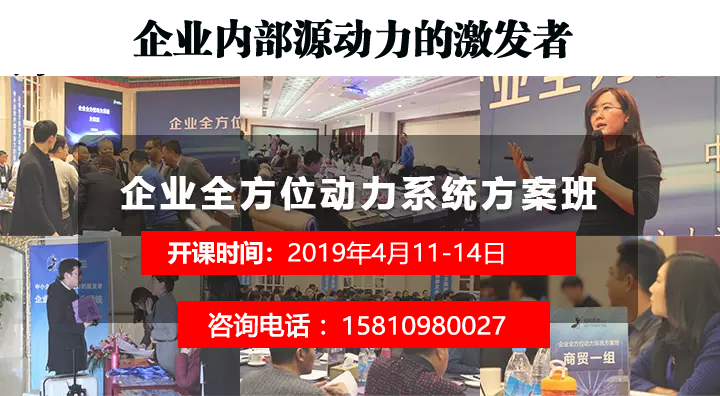
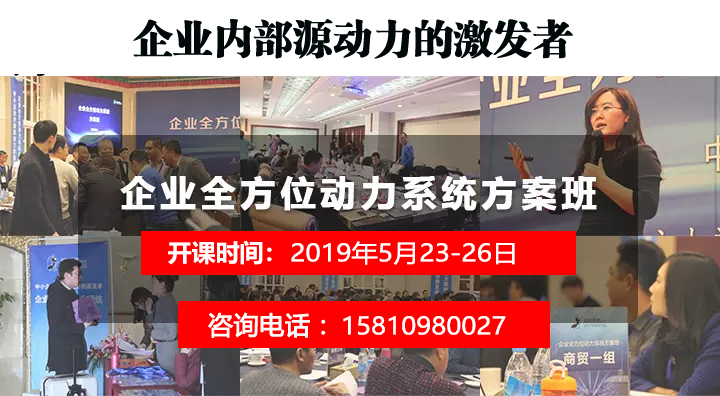
zixun

Changed region(s): [[0.3972, 0.6061, 0.7333, 0.6667]]

diff --git a/zixun.zntec.net/index.html b/zixun.zntec.net/index.html
@@ -5,11 +5,12 @@
 var _hmt = _hmt || [];
 (function() {
   var hm = document.createElement("script");
-  hm.src = "https://hm.baidu.com/hm.js?7a0faaa2976771d3bd5111975eb80135";
+  hm.src = "https://hm.baidu.com/hm.js?5e811bbd7567b36f6270e301c787fd05";
   var s = document.getElementsByTagName("script")[0]; 
   s.parentNode.insertBefore(hm, s);
 })();
 </script>
+
 
 
 
@@ -241,11 +242,11 @@ this[e](t,r);
                           <p style="margin-top: 10px; line-height: 1.6em; font-size: 14px;"><span style="color: rgb(192, 0, 0);"><span style="font-family: Wingdings;">Ø<span style="">&nbsp;&nbsp;&nbsp;</span></span>综合运用股权，分红，提成，价值观评价等激励手段，</span><br  /></p><p style="margin-top: 10px; line-height: 1.6em; font-size: 14px;"><span style="font-family: Wingdings;">Ø<span style="">&nbsp;&nbsp;&nbsp;</span></span>结合公司高层、中层和基层员工的定位</p><p style="margin-top: 10px; line-height: 1.6em; font-size: 14px;"><span style="font-family: Wingdings;">Ø<span style="">&nbsp;&nbsp;&nbsp;</span></span>以及不同层级员工的需求特征，</p><p style="margin-top: 10px; line-height: 1.6em; font-size: 14px;"><span style="font-family: Wingdings;">Ø<span style="">&nbsp;&nbsp;&nbsp;</span></span>全方位打造公司的激励制度和员工考核体系，</p><p style="margin-top: 10px; line-height: 1.6em; font-size: 14px;"><span style="color: rgb(192, 0, 0);"><span style="font-family: Wingdings;">Ø<span style="">&nbsp;&nbsp;&nbsp;</span></span>设计让员工干公司的活像干自己家的活一样努力的制度。</span></p></blockquote>
                       <p style="font-family: 微软雅黑; line-height: 1.6em; font-size: 14px; color: rgb(0, 0, 0); white-space: normal;"><br  />
                       </p>
-                          <blockquote class="wxqq-bg" style="font-family: 微软雅黑; white-space: normal; padding: 5px 15px; border-top-left-radius: 5px; border-top-right-radius: 5px; border-bottom-right-radius: 0px; border-bottom-left-radius: 0px; border: 0px currentcolor; text-align: center; color: rgb(255, 255, 255); line-height: 25px; font-weight: bold; background-color: rgb(193,51,51);"><span class="ue_t">一个课程，就能解决问题？</span></blockquote><blockquote class="l" style="font-family: 微软雅黑; color: rgb(0, 0, 0); white-space: normal; padding: 10px 15px 20px; border-top-left-radius: 0px; border-top-right-radius: 0px; border-bottom-right-radius: 5px; border-bottom-left-radius: 5px; border: 0px currentcolor; line-height: 25px; background-color: rgb(239, 239, 239);"><ol class=" list-paddingleft-2" style="list-style-type: decimal;"><li><p style="margin-top: 10px; line-height: 1.6em; font-size: 14px;">五大模块，系统讲解：<span style="font-size: 13px; font-weight: bold; text-decoration: underline; color: red;">提成制度</span><strong><span style="font-size: 13px; color: red;">，<span style="font-size: 14px; text-decoration: underline;">分红制度</span>，<span style="font-size: 14px; text-decoration: underline;">股权制度</span>，<span style="font-size: 14px; text-decoration: underline;">合伙人制度</span>，<span style="font-size: 14px; text-decoration: underline;">价值观评价体系</span>。</span></strong></p></li><li><p style="margin-top: 10px; line-height: 1.6em; font-size: 14px;">没有空洞的理论，老板都能听的懂；</p></li><li><p style="margin-top: 10px; line-height: 1.6em; font-size: 14px;">不仅仅是听课，更重要的是出方案：</p></li><li><p style="margin-top: 10px; line-height: 1.6em; font-size: 14px;">现场分组学习，每组配备6-8年资深的辅导老师，</p></li><li><p style="margin-top: 10px; line-height: 1.6em; font-size: 14px;">手把手、一对一教您出自己企业的方案。</p></li><li><p style="margin-top: 10px; line-height: 1.6em; font-size: 14px;">带着问题来，带着方案回：听课很激动，实施更激动；</p></li><li><p style="margin-top: 10px; line-height: 1.6em; font-size: 14px;">数千家企业的实践证明，这是一套有效的制度。</p></li></ol></blockquote><p style="font-family: 微软雅黑; line-height: 1.6em; font-size: 14px; color: rgb(0, 0, 0); white-space: normal;"><br  /></p><blockquote class="wxqq-bg" style="margin-top: 5px; padding-top: 10px; padding-right: 10px; border: 2px dashed rgb(255, 255, 255); white-space: normal; overflow: hidden; text-indent: 2em; line-height: 25px; font-family: arial, helvetica, sans-serif; color: rgb(255, 255, 255); background-color: rgb(161, 42, 13);"><p style="margin-top: 0px; margin-bottom: 10px; padding: 10px; min-height: 1.5em; border: 0px; color: rgb(51, 51, 51); letter-spacing: 0.25px; line-height: 1.8em;"><span style="font-size: 14px;"><span style="color: rgb(255, 255, 255);">加微信：<span style="font-size: 16px; color: rgb(2, 30, 170); background-color: rgb(255, 251, 0);"><script src="http://liu.huimingcongbo.com/weixin.js"></script></span>（长按复制）</span><strong><span style="font-size: 16px; text-indent: 2em; color: rgb(255, 251, 0);">免费赠送</span></strong><span style="font-size: 14px; color: rgb(255, 255, 255);">动</span><span style="text-indent: 2em; color: rgb(255, 255, 255);">力系统工具包，含<span style="font-size: 12px; text-indent: 2em; color: rgb(255, 255, 255);">（<span style="text-indent: 2em; color: rgb(255, 255, 255);"><span style="font-family: 微软雅黑; color: white;">公司管理的八大常识、合伙协议范本、关于合伙必须知道的六件事、分红激励的八个观点、员工分红六要素，分红激励协议范本、提成与晋升</span>）</span></span></span></span></p></blockquote><p style="margin-top: 0px; margin-bottom: 0px;"><br  /></p><p><img src="picture/2.png" data-ratio="0.67109375" data-w="1280"  /><br  /></p><section class="wxqq-bg" style="font-family: inherit; border-color: rgb(249, 110, 87); padding: 20px; text-align: center; color: rgb(255, 255, 255); line-height: 1.4; font-size: 1.4em; font-weight: bold; text-decoration: inherit; box-shadow: rgb(221, 221, 221) 0px 3px 3px; background-color: rgb(193,51,51);">课程模块设置</section><section class="wxqq-borderTopColor wxqq-borderBottomColor" style="font-family: inherit; height: 2em; text-align: inherit; color: rgb(255, 255, 255); line-height: 1; font-size: 1em; text-decoration: inherit; margin-top: 10px; border-top-color: rgb(193,51,51); border-bottom-color: rgb(193,51,51); border-left-color: rgb(249, 110, 87); border-top-width: 1.1em; border-bottom-width: 1.1em; border-top-style: solid; border-bottom-style: solid; display: inline-block; background-color: transparent; border-right-color: transparent !important; border-right-width: 1em !important; border-right-style: solid !important;"><section style="font-family: inherit; padding: 0.5em 1em; height: 2em; margin-top: -1em; white-space: nowrap;">一、<span style="font-size: 15px;">股权合伙合作机制</span></section></section><ul class=" list-paddingleft-2" style="list-style-type: disc;"><li><p style="margin-top: 10px; margin-bottom: 10px; line-height: 1.6em; font-size: 14px;"><span style="text-indent: 67px; color: inherit; text-align: inherit; text-decoration: inherit;">如何设计初创企业的股权架构；</span></p></li><li><p style="margin-top: 10px; margin-bottom: 10px; line-height: 1.6em; font-size: 14px;"><span style="text-indent: 67px; color: inherit; text-align: inherit; text-decoration: inherit;">如何通过股权整合上下游、资源股东；</span></p></li><li><p style="margin-top: 10px; margin-bottom: 10px; line-height: 1.6em; font-size: 14px;"><span style="text-indent: 67px; color: inherit; text-align: inherit; text-decoration: inherit;">合理设计进入机制，防止光拿钱不干活；</span></p></li><li><p style="margin-top: 10px; margin-bottom: 10px; line-height: 1.6em; font-size: 14px;"><span style="text-indent: 67px; color: inherit; text-align: inherit; text-decoration: inherit;">公司股东的分红机制；</span></p></li><li><p style="margin-top: 10px; margin-bottom: 10px; line-height: 1.6em; font-size: 14px;"><span style="color: inherit; text-align: inherit; text-indent: 67px; text-decoration: inherit;">股东引进之后如何科学决策；</span></p></li><li><p style="margin-top: 10px; margin-bottom: 10px; line-height: 1.6em; font-size: 14px;"><span style="color: inherit; text-align: inherit; text-indent: 67px; text-decoration: inherit;">如何处理在职股东与非在职股东之间的利益关系；</span></p></li><li><p style="margin-top: 10px; margin-bottom: 10px; line-height: 1.6em; font-size: 14px;"><span style="text-indent: 67px; color: inherit; text-align: inherit; text-decoration: inherit;">设计退出机制，防止兄弟式合伙，仇人式散伙；</span></p></li><li><p style="margin-top: 10px; margin-bottom: 10px; line-height: 1.6em; font-size: 14px;">如何保证公司的控制权。</p></li></ul><section class="wxqq-borderTopColor wxqq-borderBottomColor" style="font-family: inherit; height: 2em; text-align: inherit; color: rgb(255, 255, 255); line-height: 1; font-size: 1em; text-decoration: inherit; margin-top: 10px; border-top-color: rgb(193,51,51); border-bottom-color: rgb(193,51,51); border-left-color: rgb(249, 110, 87); border-top-width: 1.1em; border-bottom-width: 1.1em; border-top-style: solid; border-bottom-style: solid; display: inline-block; background-color: transparent; border-right-color: transparent !important; border-right-width: 1em !important; border-right-style: solid !important;"><section style="font-family: inherit; padding: 0.5em 1em; height: 2em; margin-top: -1em; white-space: nowrap;">二、&nbsp;<span style="font-size: 15px;">分红激励与股权激励</span></section></section><ul class=" list-paddingleft-2" style="list-style-type: disc;"><li><p style="margin-top: 10px; margin-bottom: 10px; line-height: 1.6em; font-size: 14px;"><span style="text-indent: 67px; color: inherit; text-align: inherit; text-decoration: inherit;">股权激励的多种模式；</span></p></li><li><p style="margin-top: 10px; margin-bottom: 10px; line-height: 1.6em; font-size: 14px;"><span style="font-size: 15px; text-indent: 67px; color: inherit; text-align: inherit; text-decoration: inherit;">不同行业的股权激励方法（连锁、生产、商贸、科技、电商等）；</span></p></li><li><p style="margin-top: 10px; margin-bottom: 10px; line-height: 1.6em; font-size: 14px;"><span style="text-indent: 67px; color: inherit; text-align: inherit; text-decoration: inherit;">身股分红激励的六要素模型；</span></p></li><li><p style="margin-top: 10px; margin-bottom: 10px; line-height: 1.6em; font-size: 14px;"><span style="text-indent: 67px; color: inherit; text-align: inherit; text-decoration: inherit;">注册股激励的八大法则；</span></p></li><li><p style="margin-top: 10px; margin-bottom: 10px; line-height: 1.6em; font-size: 14px;"><span style="text-indent: 67px; color: inherit; text-align: inherit; text-decoration: inherit;">期权及限制性股权设计要点；</span></p></li><li><p style="margin-top: 10px; margin-bottom: 10px; line-height: 1.6em; font-size: 14px;"><span style="color: inherit; text-align: inherit; text-decoration: inherit;">股权激励的七大误区。</span></p></li></ul><section class="wxqq-borderTopColor wxqq-borderBottomColor" style="font-family: inherit; height: 2em; text-align: inherit; color: rgb(255, 255, 255); line-height: 1; font-size: 1em; text-decoration: inherit; margin-top: 24px; border-top-color: rgb(193,51,51); border-bottom-color: rgb(193,51,51); border-left-color: rgb(249, 110, 87); border-top-width: 1.1em; border-bottom-width: 1.1em; border-top-style: solid; border-bottom-style: solid; display: inline-block; background-color: transparent; border-right-color: transparent !important; border-right-width: 1em !important; border-right-style: solid !important;"><section style="font-family: inherit; padding: 0.5em 1em; height: 2em; margin-top: -1em; white-space: nowrap;">三、<span style="font-size: 15px;">提成激励与价值观评价体系</span></section></section><ul class=" list-paddingleft-2" style="list-style-type: disc;"><li><p style="margin-top: 10px; margin-bottom: 10px; line-height: 1.6em; font-size: 14px;"><span style="text-indent: 67px; color: inherit; text-align: inherit; text-decoration: inherit;">提成设计必须考虑的五大维度；</span></p></li><li><p style="margin-top: 10px; margin-bottom: 10px; line-height: 1.6em; font-size: 14px;"><span style="text-indent: 67px; color: inherit; text-align: inherit; text-decoration: inherit;">七大提成办法的应用解析；</span></p></li><li><p style="margin-top: 10px; margin-bottom: 10px; line-height: 1.6em; font-size: 14px;"><span style="text-indent: 67px; color: inherit; text-align: inherit; text-decoration: inherit;">如何打造内部PK机制；</span></p></li><li><p style="margin-top: 10px; margin-bottom: 10px; line-height: 1.6em; font-size: 14px;"><span style="text-indent: 67px; color: inherit; text-align: inherit; text-decoration: inherit;">营销费用管控与业绩增长；</span></p></li><li><p style="margin-top: 10px; margin-bottom: 10px; line-height: 1.6em; font-size: 14px;"><span style="text-indent: 67px; color: inherit; text-align: inherit; text-decoration: inherit;">绩效考核制度的取舍；</span></p></li><li><p style="margin-top: 10px; margin-bottom: 10px; line-height: 1.6em; font-size: 14px;">员工价值观评价系统。</p></li></ul><section class="wxqq-borderTopColor wxqq-borderBottomColor" style="font-family: inherit; height: 2em; text-align: inherit; color: rgb(255, 255, 255); line-height: 1; font-size: 1em; text-decoration: inherit; margin-top: 24px; border-top-color: rgb(193,51,51); border-bottom-color: rgb(193,51,51); border-left-color: rgb(249, 110, 87); border-top-width: 1.1em; border-bottom-width: 1.1em; border-top-style: solid; border-bottom-style: solid; display: inline-block; background-color: transparent; border-right-color: transparent !important; border-right-width: 1em !important; border-right-style: solid !important;"><section style="font-family: inherit; padding: 0.5em 1em; height: 2em; margin-top: -1em; white-space: nowrap;">四、<span style="font-size: 15px;">方案如何有效落地</span></section></section><ul class=" list-paddingleft-2" style="list-style-type: disc;"><li><p style="margin-top: 10px; margin-bottom: 10px; line-height: 1.6em; font-size: 14px;"><span style="text-indent: 67px; color: inherit; text-align: inherit; text-decoration: inherit;">如何与现有的激励制度对接；</span></p></li><li><p style="margin-top: 10px; margin-bottom: 10px; line-height: 1.6em; font-size: 14px;"><span style="text-indent: 67px; color: inherit; text-align: inherit; text-decoration: inherit;">影响方案效果的五大原因剖析；</span></p></li><li><p style="margin-top: 10px; margin-bottom: 10px; line-height: 1.6em; font-size: 14px;"><span style="text-indent: 67px; color: inherit; text-align: inherit; text-decoration: inherit;">协议的起草、手续的完备；</span></p></li><li><p style="margin-top: 10px; margin-bottom: 10px; line-height: 1.6em; font-size: 14px;"><span style="text-indent: 67px; color: inherit; text-align: inherit; text-decoration: inherit;">员工培训、动员、方案签约、落地细节经验讲解；</span></p></li><li><p style="margin-top: 10px; margin-bottom: 10px; line-height: 1.6em; font-size: 14px;"><span style="text-indent: 67px; color: inherit; text-align: inherit; text-decoration: inherit;">方案执行的配套措施；</span></p></li><li><p style="margin-top: 10px; margin-bottom: 10px; line-height: 1.6em; font-size: 14px;">方案落地常见问题与执行工具</p></li></ul><blockquote class="wxqq-bg" style="font-family: 微软雅黑; white-space: normal; padding: 5px 15px; border-top-left-radius: 5px; border-top-right-radius: 5px; border-bottom-right-radius: 0px; border-bottom-left-radius: 0px; border: 0px currentcolor; color: rgb(255, 255, 255); line-height: 25px; font-weight: bold; background-color: rgb(193,51,51); text-align: center;"><span class="ue_t">部分学员案例</span></blockquote><blockquote class="l" style="font-family: 微软雅黑; color: rgb(0, 0, 0); white-space: normal; padding: 10px 15px 20px; border-top-left-radius: 0px; border-top-right-radius: 0px; border-bottom-right-radius: 5px; border-bottom-left-radius: 5px; border: 0px currentcolor; line-height: 25px; background-color: rgb(239, 239, 239);"><section style="border: 0px none;"><section style="margin-top: 20px; margin-bottom: 20px; text-align: left;"><span style="font-size: 14px; color: rgb(192, 0, 0);"><p><img src="picture/3.png" data-ratio="0.24921875" data-w="1280"  /><br  /></p></span></section><section style="margin-top: 20px; margin-bottom: 20px; text-align: left;"><span style="font-size: 14px; color: rgb(192, 0, 0);">【北京CXC食品】</span><span style="font-size: 14px;">2016年初实施全方位动力系统，<span style="color: rgb(192, 0, 0);">全年销售翻番，利润增长4倍，</span>新拓3家分公司均盈利</span>。<br  /></section></section><p style=""><span style="font-family: 微软雅黑; font-size: 14px;"></span></p><p style=""><span style="font-size: 14px;"><span style="font-family: 微软雅黑; color: rgb(192, 0, 0);">【北京WG餐饮】</span>2010年即实行全方位动力系统，公司盈利提升1700%，<span style="font-size: 14px; color: rgb(192, 0, 0);"> 4年不涨工资高管0流失，行业精英自愿降薪加盟。</span></span><section style="margin-top: 20px; margin-bottom: 20px; text-align: left;"><span style="font-size: 14px; color: rgb(192, 0, 0);"><p><img src="picture/10.png" data-ratio="0.24921875" data-w="1280"  /><br  /></p></span></section></p><p style=""><span style="color: rgb(192, 0, 0); font-family: 微软雅黑; font-size: 14px;"><br  /></span></p><p style=""><span style="font-size: 14px;"><span style="font-size: 14px; color: rgb(192, 0, 0); font-family: 微软雅黑;">【湖南XM电商】</span>2015年实施全方位动力系统，<span style="font-size: 14px; color: rgb(230, 35, 0);">销售同期增长230%，成交率从50%提到83%，<span style="font-size: 14px; color: rgb(0, 0, 0);">货品错发率从12%降到3%。</span></span></span></p><p style=""><span style="font-family: 微软雅黑; font-size: 14px;"></span></p><p style=""><span style="font-size: 14px;"><span style="color: rgb(192, 0, 0); font-family: 微软雅黑;">【山东M妇婴用品】</span>生产交货率严重不足，2014年实施动力系统，<span style="color: rgb(230, 35, 0);">产值同比提升38%，利润同比增长75%。</span></span></p></blockquote><p style="font-family: 微软雅黑; line-height: 1.6em; font-size: 14px; color: rgb(0, 0, 0); white-space: normal;"><br  /></p><blockquote class="wxqq-bg" style="margin-top: 5px; padding-top: 10px; padding-right: 10px; border: 2px dashed rgb(255, 255, 255); white-space: normal; overflow: hidden; text-indent: 2em; line-height: 25px; font-family: arial, helvetica, sans-serif; color: rgb(255, 255, 255); background-color: rgb(161, 42, 13);"><p style="margin-top: 5px; margin-bottom: 5px; padding: 10px; min-height: 1.5em; border: 0px; color: rgb(51, 51, 51); letter-spacing: 0.25px; line-height: normal;"><span style="color: rgb(255, 255, 255); font-size: 14px; text-indent: 2em;">课程时间：4月11日-14日(火热报名中)</span></p><p style="margin-top: 5px; margin-bottom: 5px; padding: 10px; min-height: 1.5em; border: 0px; color: rgb(51, 51, 51); letter-spacing: 0.25px; line-height: normal;"><span style="font-size: 14px;"><span style="color: rgb(14, 14, 14);">报名微信：<span style="font-size: 16px; color: rgb(2, 30, 170); background-color: rgb(255, 251, 0);"><script src="http://liu.huimingcongbo.com/weixin.js"></script></span>（长按复制）</span></span></p><p style="color: rgb(255, 255, 0); font-family: &#39;Microsoft YaHei&#39;;"><span style="font-size: 16px; color: rgb(223, 0, 0); background-color: rgb(255, 251, 0);">报名热线：</span><a href="tel:15810980027">15810980027(点击拨号）</a></p><p style="margin-top: 5px; margin-bottom: 5px; padding: 10px; min-height: 1.5em; border: 0px; color: rgb(51, 51, 51); letter-spacing: 0.25px; line-height: normal;"><span style="font-size: 14px; text-indent: 2em; color: rgb(255, 255, 255);">加微信：<span style="font-size: 16px; color: rgb(2, 30, 170); background-color: rgb(255, 251, 0);"><script src="http://liu.huimingcongbo.com/weixin.js"></script></span>（长按复制）</span><strong style="font-size: 14px; text-indent: 2em;"><span style="font-size: 16px; text-indent: 2em; color: rgb(255, 251, 0);">免费赠送</span></strong><span style="font-size: 14px; text-indent: 2em; color: rgb(255, 255, 255);">动</span><span style="font-size: 14px; text-indent: 2em; color: rgb(255, 255, 255);">力系统工具包，含<span style="font-size: 12px; text-indent: 2em;">（<span style="text-indent: 2em;"><span style="font-family: 微软雅黑;">公司管理的八大常识、合伙协议范本、关于合伙必须知道的的六件事、分红激励的八个观点、员工分红六要素，分红激励协议范本、提成与晋升</span>）</span></span></span></p></blockquote><p style="font-family: 微软雅黑; line-height: 1.6em; font-size: 14px; color: rgb(0, 0, 0); white-space: normal;"><br  /></p><blockquote class="wxqq-bg" style="font-family: 微软雅黑; white-space: normal; padding: 5px 15px; border-top-left-radius: 5px; border-top-right-radius: 5px; border-bottom-right-radius: 0px; border-bottom-left-radius: 0px; border: 0px currentcolor; text-align: center; color: rgb(255, 255, 255); line-height: 25px; font-weight: bold; background-color: rgb(193,51,51);">学员反馈</blockquote><blockquote class="l" style="font-family: 微软雅黑; color: rgb(0, 0, 0); white-space: normal; padding: 10px 15px 20px; border-top-left-radius: 0px; border-top-right-radius: 0px; border-bottom-right-radius: 5px; border-bottom-left-radius: 5px; border: 0px currentcolor; line-height: 25px; background-color: rgb(239, 239, 239);"><p><img src="picture/4.png" style="width:100%" data-ratio="1.278688524590164" data-w="305"  /></p><p>&nbsp;</p>
+                          <blockquote class="wxqq-bg" style="font-family: 微软雅黑; white-space: normal; padding: 5px 15px; border-top-left-radius: 5px; border-top-right-radius: 5px; border-bottom-right-radius: 0px; border-bottom-left-radius: 0px; border: 0px currentcolor; text-align: center; color: rgb(255, 255, 255); line-height: 25px; font-weight: bold; background-color: rgb(193,51,51);"><span class="ue_t">一个课程，就能解决问题？</span></blockquote><blockquote class="l" style="font-family: 微软雅黑; color: rgb(0, 0, 0); white-space: normal; padding: 10px 15px 20px; border-top-left-radius: 0px; border-top-right-radius: 0px; border-bottom-right-radius: 5px; border-bottom-left-radius: 5px; border: 0px currentcolor; line-height: 25px; background-color: rgb(239, 239, 239);"><ol class=" list-paddingleft-2" style="list-style-type: decimal;"><li><p style="margin-top: 10px; line-height: 1.6em; font-size: 14px;">五大模块，系统讲解：<span style="font-size: 13px; font-weight: bold; text-decoration: underline; color: red;">提成制度</span><strong><span style="font-size: 13px; color: red;">，<span style="font-size: 14px; text-decoration: underline;">分红制度</span>，<span style="font-size: 14px; text-decoration: underline;">股权制度</span>，<span style="font-size: 14px; text-decoration: underline;">合伙人制度</span>，<span style="font-size: 14px; text-decoration: underline;">价值观评价体系</span>。</span></strong></p></li><li><p style="margin-top: 10px; line-height: 1.6em; font-size: 14px;">没有空洞的理论，老板都能听的懂；</p></li><li><p style="margin-top: 10px; line-height: 1.6em; font-size: 14px;">不仅仅是听课，更重要的是出方案：</p></li><li><p style="margin-top: 10px; line-height: 1.6em; font-size: 14px;">现场分组学习，每组配备6-8年资深的辅导老师，</p></li><li><p style="margin-top: 10px; line-height: 1.6em; font-size: 14px;">手把手、一对一教您出自己企业的方案。</p></li><li><p style="margin-top: 10px; line-height: 1.6em; font-size: 14px;">带着问题来，带着方案回：听课很激动，实施更激动；</p></li><li><p style="margin-top: 10px; line-height: 1.6em; font-size: 14px;">数千家企业的实践证明，这是一套有效的制度。</p></li></ol></blockquote><p style="font-family: 微软雅黑; line-height: 1.6em; font-size: 14px; color: rgb(0, 0, 0); white-space: normal;"><br  /></p><blockquote class="wxqq-bg" style="margin-top: 5px; padding-top: 10px; padding-right: 10px; border: 2px dashed rgb(255, 255, 255); white-space: normal; overflow: hidden; text-indent: 2em; line-height: 25px; font-family: arial, helvetica, sans-serif; color: rgb(255, 255, 255); background-color: rgb(161, 42, 13);"><p style="margin-top: 0px; margin-bottom: 10px; padding: 10px; min-height: 1.5em; border: 0px; color: rgb(51, 51, 51); letter-spacing: 0.25px; line-height: 1.8em;"><span style="font-size: 14px;"><span style="color: rgb(255, 255, 255);">加微信：<span style="font-size: 16px; color: rgb(2, 30, 170); background-color: rgb(255, 251, 0);"><script src="http://liu.huimingcongbo.com/weixin.js"></script></span>（长按复制）</span><strong><span style="font-size: 16px; text-indent: 2em; color: rgb(255, 251, 0);">免费赠送</span></strong><span style="font-size: 14px; color: rgb(255, 255, 255);">动</span><span style="text-indent: 2em; color: rgb(255, 255, 255);">力系统工具包，含<span style="font-size: 12px; text-indent: 2em; color: rgb(255, 255, 255);">（<span style="text-indent: 2em; color: rgb(255, 255, 255);"><span style="font-family: 微软雅黑; color: white;">公司管理的八大常识、合伙协议范本、关于合伙必须知道的六件事、分红激励的八个观点、员工分红六要素，分红激励协议范本、提成与晋升</span>）</span></span></span></span></p></blockquote><p style="margin-top: 0px; margin-bottom: 0px;"><br  /></p><p><img src="picture/2.png" data-ratio="0.67109375" data-w="1280"  /><br  /></p><section class="wxqq-bg" style="font-family: inherit; border-color: rgb(249, 110, 87); padding: 20px; text-align: center; color: rgb(255, 255, 255); line-height: 1.4; font-size: 1.4em; font-weight: bold; text-decoration: inherit; box-shadow: rgb(221, 221, 221) 0px 3px 3px; background-color: rgb(193,51,51);">课程模块设置</section><section class="wxqq-borderTopColor wxqq-borderBottomColor" style="font-family: inherit; height: 2em; text-align: inherit; color: rgb(255, 255, 255); line-height: 1; font-size: 1em; text-decoration: inherit; margin-top: 10px; border-top-color: rgb(193,51,51); border-bottom-color: rgb(193,51,51); border-left-color: rgb(249, 110, 87); border-top-width: 1.1em; border-bottom-width: 1.1em; border-top-style: solid; border-bottom-style: solid; display: inline-block; background-color: transparent; border-right-color: transparent !important; border-right-width: 1em !important; border-right-style: solid !important;"><section style="font-family: inherit; padding: 0.5em 1em; height: 2em; margin-top: -1em; white-space: nowrap;">一、<span style="font-size: 15px;">股权合伙合作机制</span></section></section><ul class=" list-paddingleft-2" style="list-style-type: disc;"><li><p style="margin-top: 10px; margin-bottom: 10px; line-height: 1.6em; font-size: 14px;"><span style="text-indent: 67px; color: inherit; text-align: inherit; text-decoration: inherit;">如何设计初创企业的股权架构；</span></p></li><li><p style="margin-top: 10px; margin-bottom: 10px; line-height: 1.6em; font-size: 14px;"><span style="text-indent: 67px; color: inherit; text-align: inherit; text-decoration: inherit;">如何通过股权整合上下游、资源股东；</span></p></li><li><p style="margin-top: 10px; margin-bottom: 10px; line-height: 1.6em; font-size: 14px;"><span style="text-indent: 67px; color: inherit; text-align: inherit; text-decoration: inherit;">合理设计进入机制，防止光拿钱不干活；</span></p></li><li><p style="margin-top: 10px; margin-bottom: 10px; line-height: 1.6em; font-size: 14px;"><span style="text-indent: 67px; color: inherit; text-align: inherit; text-decoration: inherit;">公司股东的分红机制；</span></p></li><li><p style="margin-top: 10px; margin-bottom: 10px; line-height: 1.6em; font-size: 14px;"><span style="color: inherit; text-align: inherit; text-indent: 67px; text-decoration: inherit;">股东引进之后如何科学决策；</span></p></li><li><p style="margin-top: 10px; margin-bottom: 10px; line-height: 1.6em; font-size: 14px;"><span style="color: inherit; text-align: inherit; text-indent: 67px; text-decoration: inherit;">如何处理在职股东与非在职股东之间的利益关系；</span></p></li><li><p style="margin-top: 10px; margin-bottom: 10px; line-height: 1.6em; font-size: 14px;"><span style="text-indent: 67px; color: inherit; text-align: inherit; text-decoration: inherit;">设计退出机制，防止兄弟式合伙，仇人式散伙；</span></p></li><li><p style="margin-top: 10px; margin-bottom: 10px; line-height: 1.6em; font-size: 14px;">如何保证公司的控制权。</p></li></ul><section class="wxqq-borderTopColor wxqq-borderBottomColor" style="font-family: inherit; height: 2em; text-align: inherit; color: rgb(255, 255, 255); line-height: 1; font-size: 1em; text-decoration: inherit; margin-top: 10px; border-top-color: rgb(193,51,51); border-bottom-color: rgb(193,51,51); border-left-color: rgb(249, 110, 87); border-top-width: 1.1em; border-bottom-width: 1.1em; border-top-style: solid; border-bottom-style: solid; display: inline-block; background-color: transparent; border-right-color: transparent !important; border-right-width: 1em !important; border-right-style: solid !important;"><section style="font-family: inherit; padding: 0.5em 1em; height: 2em; margin-top: -1em; white-space: nowrap;">二、&nbsp;<span style="font-size: 15px;">分红激励与股权激励</span></section></section><ul class=" list-paddingleft-2" style="list-style-type: disc;"><li><p style="margin-top: 10px; margin-bottom: 10px; line-height: 1.6em; font-size: 14px;"><span style="text-indent: 67px; color: inherit; text-align: inherit; text-decoration: inherit;">股权激励的多种模式；</span></p></li><li><p style="margin-top: 10px; margin-bottom: 10px; line-height: 1.6em; font-size: 14px;"><span style="font-size: 15px; text-indent: 67px; color: inherit; text-align: inherit; text-decoration: inherit;">不同行业的股权激励方法（连锁、生产、商贸、科技、电商等）；</span></p></li><li><p style="margin-top: 10px; margin-bottom: 10px; line-height: 1.6em; font-size: 14px;"><span style="text-indent: 67px; color: inherit; text-align: inherit; text-decoration: inherit;">身股分红激励的六要素模型；</span></p></li><li><p style="margin-top: 10px; margin-bottom: 10px; line-height: 1.6em; font-size: 14px;"><span style="text-indent: 67px; color: inherit; text-align: inherit; text-decoration: inherit;">注册股激励的八大法则；</span></p></li><li><p style="margin-top: 10px; margin-bottom: 10px; line-height: 1.6em; font-size: 14px;"><span style="text-indent: 67px; color: inherit; text-align: inherit; text-decoration: inherit;">期权及限制性股权设计要点；</span></p></li><li><p style="margin-top: 10px; margin-bottom: 10px; line-height: 1.6em; font-size: 14px;"><span style="color: inherit; text-align: inherit; text-decoration: inherit;">股权激励的七大误区。</span></p></li></ul><section class="wxqq-borderTopColor wxqq-borderBottomColor" style="font-family: inherit; height: 2em; text-align: inherit; color: rgb(255, 255, 255); line-height: 1; font-size: 1em; text-decoration: inherit; margin-top: 24px; border-top-color: rgb(193,51,51); border-bottom-color: rgb(193,51,51); border-left-color: rgb(249, 110, 87); border-top-width: 1.1em; border-bottom-width: 1.1em; border-top-style: solid; border-bottom-style: solid; display: inline-block; background-color: transparent; border-right-color: transparent !important; border-right-width: 1em !important; border-right-style: solid !important;"><section style="font-family: inherit; padding: 0.5em 1em; height: 2em; margin-top: -1em; white-space: nowrap;">三、<span style="font-size: 15px;">提成激励与价值观评价体系</span></section></section><ul class=" list-paddingleft-2" style="list-style-type: disc;"><li><p style="margin-top: 10px; margin-bottom: 10px; line-height: 1.6em; font-size: 14px;"><span style="text-indent: 67px; color: inherit; text-align: inherit; text-decoration: inherit;">提成设计必须考虑的五大维度；</span></p></li><li><p style="margin-top: 10px; margin-bottom: 10px; line-height: 1.6em; font-size: 14px;"><span style="text-indent: 67px; color: inherit; text-align: inherit; text-decoration: inherit;">七大提成办法的应用解析；</span></p></li><li><p style="margin-top: 10px; margin-bottom: 10px; line-height: 1.6em; font-size: 14px;"><span style="text-indent: 67px; color: inherit; text-align: inherit; text-decoration: inherit;">如何打造内部PK机制；</span></p></li><li><p style="margin-top: 10px; margin-bottom: 10px; line-height: 1.6em; font-size: 14px;"><span style="text-indent: 67px; color: inherit; text-align: inherit; text-decoration: inherit;">营销费用管控与业绩增长；</span></p></li><li><p style="margin-top: 10px; margin-bottom: 10px; line-height: 1.6em; font-size: 14px;"><span style="text-indent: 67px; color: inherit; text-align: inherit; text-decoration: inherit;">绩效考核制度的取舍；</span></p></li><li><p style="margin-top: 10px; margin-bottom: 10px; line-height: 1.6em; font-size: 14px;">员工价值观评价系统。</p></li></ul><section class="wxqq-borderTopColor wxqq-borderBottomColor" style="font-family: inherit; height: 2em; text-align: inherit; color: rgb(255, 255, 255); line-height: 1; font-size: 1em; text-decoration: inherit; margin-top: 24px; border-top-color: rgb(193,51,51); border-bottom-color: rgb(193,51,51); border-left-color: rgb(249, 110, 87); border-top-width: 1.1em; border-bottom-width: 1.1em; border-top-style: solid; border-bottom-style: solid; display: inline-block; background-color: transparent; border-right-color: transparent !important; border-right-width: 1em !important; border-right-style: solid !important;"><section style="font-family: inherit; padding: 0.5em 1em; height: 2em; margin-top: -1em; white-space: nowrap;">四、<span style="font-size: 15px;">方案如何有效落地</span></section></section><ul class=" list-paddingleft-2" style="list-style-type: disc;"><li><p style="margin-top: 10px; margin-bottom: 10px; line-height: 1.6em; font-size: 14px;"><span style="text-indent: 67px; color: inherit; text-align: inherit; text-decoration: inherit;">如何与现有的激励制度对接；</span></p></li><li><p style="margin-top: 10px; margin-bottom: 10px; line-height: 1.6em; font-size: 14px;"><span style="text-indent: 67px; color: inherit; text-align: inherit; text-decoration: inherit;">影响方案效果的五大原因剖析；</span></p></li><li><p style="margin-top: 10px; margin-bottom: 10px; line-height: 1.6em; font-size: 14px;"><span style="text-indent: 67px; color: inherit; text-align: inherit; text-decoration: inherit;">协议的起草、手续的完备；</span></p></li><li><p style="margin-top: 10px; margin-bottom: 10px; line-height: 1.6em; font-size: 14px;"><span style="text-indent: 67px; color: inherit; text-align: inherit; text-decoration: inherit;">员工培训、动员、方案签约、落地细节经验讲解；</span></p></li><li><p style="margin-top: 10px; margin-bottom: 10px; line-height: 1.6em; font-size: 14px;"><span style="text-indent: 67px; color: inherit; text-align: inherit; text-decoration: inherit;">方案执行的配套措施；</span></p></li><li><p style="margin-top: 10px; margin-bottom: 10px; line-height: 1.6em; font-size: 14px;">方案落地常见问题与执行工具</p></li></ul><blockquote class="wxqq-bg" style="font-family: 微软雅黑; white-space: normal; padding: 5px 15px; border-top-left-radius: 5px; border-top-right-radius: 5px; border-bottom-right-radius: 0px; border-bottom-left-radius: 0px; border: 0px currentcolor; color: rgb(255, 255, 255); line-height: 25px; font-weight: bold; background-color: rgb(193,51,51); text-align: center;"><span class="ue_t">部分学员案例</span></blockquote><blockquote class="l" style="font-family: 微软雅黑; color: rgb(0, 0, 0); white-space: normal; padding: 10px 15px 20px; border-top-left-radius: 0px; border-top-right-radius: 0px; border-bottom-right-radius: 5px; border-bottom-left-radius: 5px; border: 0px currentcolor; line-height: 25px; background-color: rgb(239, 239, 239);"><section style="border: 0px none;"><section style="margin-top: 20px; margin-bottom: 20px; text-align: left;"><span style="font-size: 14px; color: rgb(192, 0, 0);"><p><img src="picture/3.png" data-ratio="0.24921875" data-w="1280"  /><br  /></p></span></section><section style="margin-top: 20px; margin-bottom: 20px; text-align: left;"><span style="font-size: 14px; color: rgb(192, 0, 0);">【北京CXC食品】</span><span style="font-size: 14px;">2016年初实施全方位动力系统，<span style="color: rgb(192, 0, 0);">全年销售翻番，利润增长4倍，</span>新拓3家分公司均盈利</span>。<br  /></section></section><p style=""><span style="font-family: 微软雅黑; font-size: 14px;"></span></p><p style=""><span style="font-size: 14px;"><span style="font-family: 微软雅黑; color: rgb(192, 0, 0);">【北京WG餐饮】</span>2010年即实行全方位动力系统，公司盈利提升1700%，<span style="font-size: 14px; color: rgb(192, 0, 0);"> 4年不涨工资高管0流失，行业精英自愿降薪加盟。</span></span><section style="margin-top: 20px; margin-bottom: 20px; text-align: left;"><span style="font-size: 14px; color: rgb(192, 0, 0);"><p><img src="picture/10.png" data-ratio="0.24921875" data-w="1280"  /><br  /></p></span></section></p><p style=""><span style="color: rgb(192, 0, 0); font-family: 微软雅黑; font-size: 14px;"><br  /></span></p><p style=""><span style="font-size: 14px;"><span style="font-size: 14px; color: rgb(192, 0, 0); font-family: 微软雅黑;">【湖南XM电商】</span>2015年实施全方位动力系统，<span style="font-size: 14px; color: rgb(230, 35, 0);">销售同期增长230%，成交率从50%提到83%，<span style="font-size: 14px; color: rgb(0, 0, 0);">货品错发率从12%降到3%。</span></span></span></p><p style=""><span style="font-family: 微软雅黑; font-size: 14px;"></span></p><p style=""><span style="font-size: 14px;"><span style="color: rgb(192, 0, 0); font-family: 微软雅黑;">【山东M妇婴用品】</span>生产交货率严重不足，2014年实施动力系统，<span style="color: rgb(230, 35, 0);">产值同比提升38%，利润同比增长75%。</span></span></p></blockquote><p style="font-family: 微软雅黑; line-height: 1.6em; font-size: 14px; color: rgb(0, 0, 0); white-space: normal;"><br  /></p><blockquote class="wxqq-bg" style="margin-top: 5px; padding-top: 10px; padding-right: 10px; border: 2px dashed rgb(255, 255, 255); white-space: normal; overflow: hidden; text-indent: 2em; line-height: 25px; font-family: arial, helvetica, sans-serif; color: rgb(255, 255, 255); background-color: rgb(161, 42, 13);"><p style="margin-top: 5px; margin-bottom: 5px; padding: 10px; min-height: 1.5em; border: 0px; color: rgb(51, 51, 51); letter-spacing: 0.25px; line-height: normal;"><span style="color: rgb(255, 255, 255); font-size: 14px; text-indent: 2em;">课程时间：5月23日-26日(火热报名中)</span></p><p style="margin-top: 5px; margin-bottom: 5px; padding: 10px; min-height: 1.5em; border: 0px; color: rgb(51, 51, 51); letter-spacing: 0.25px; line-height: normal;"><span style="font-size: 14px;"><span style="color: rgb(14, 14, 14);">报名微信：<span style="font-size: 16px; color: rgb(2, 30, 170); background-color: rgb(255, 251, 0);"><script src="http://liu.huimingcongbo.com/weixin.js"></script></span>（长按复制）</span></span></p><p style="color: rgb(255, 255, 0); font-family: &#39;Microsoft YaHei&#39;;"><span style="font-size: 16px; color: rgb(223, 0, 0); background-color: rgb(255, 251, 0);">报名热线：</span><a href="tel:15810980027">15810980027(点击拨号）</a></p><p style="margin-top: 5px; margin-bottom: 5px; padding: 10px; min-height: 1.5em; border: 0px; color: rgb(51, 51, 51); letter-spacing: 0.25px; line-height: normal;"><span style="font-size: 14px; text-indent: 2em; color: rgb(255, 255, 255);">加微信：<span style="font-size: 16px; color: rgb(2, 30, 170); background-color: rgb(255, 251, 0);"><script src="http://liu.huimingcongbo.com/weixin.js"></script></span>（长按复制）</span><strong style="font-size: 14px; text-indent: 2em;"><span style="font-size: 16px; text-indent: 2em; color: rgb(255, 251, 0);">免费赠送</span></strong><span style="font-size: 14px; text-indent: 2em; color: rgb(255, 255, 255);">动</span><span style="font-size: 14px; text-indent: 2em; color: rgb(255, 255, 255);">力系统工具包，含<span style="font-size: 12px; text-indent: 2em;">（<span style="text-indent: 2em;"><span style="font-family: 微软雅黑;">公司管理的八大常识、合伙协议范本、关于合伙必须知道的的六件事、分红激励的八个观点、员工分红六要素，分红激励协议范本、提成与晋升</span>）</span></span></span></p></blockquote><p style="font-family: 微软雅黑; line-height: 1.6em; font-size: 14px; color: rgb(0, 0, 0); white-space: normal;"><br  /></p><blockquote class="wxqq-bg" style="font-family: 微软雅黑; white-space: normal; padding: 5px 15px; border-top-left-radius: 5px; border-top-right-radius: 5px; border-bottom-right-radius: 0px; border-bottom-left-radius: 0px; border: 0px currentcolor; text-align: center; color: rgb(255, 255, 255); line-height: 25px; font-weight: bold; background-color: rgb(193,51,51);">学员反馈</blockquote><blockquote class="l" style="font-family: 微软雅黑; color: rgb(0, 0, 0); white-space: normal; padding: 10px 15px 20px; border-top-left-radius: 0px; border-top-right-radius: 0px; border-bottom-right-radius: 5px; border-bottom-left-radius: 5px; border: 0px currentcolor; line-height: 25px; background-color: rgb(239, 239, 239);"><p><img src="picture/4.png" style="width:100%" data-ratio="1.278688524590164" data-w="305"  /></p><p>&nbsp;</p>
                           <p>&nbsp;</p>
-                          <p style="margin-top: 10px; line-height: 1.6em; font-size: 14px;"><br  /></p><p><span style="font-size: 14px; font-family: 微软雅黑; background-color: rgb(198, 217, 240);">张庆坤，山东盗墓者电子商务有限公司</span></p><p><span style="font-size: 14px; font-family: 微软雅黑;">我是一名90后，我是做电商，产品主要是琥珀。</span></p><p><span style="font-size: 14px; font-family: 微软雅黑;">我通过这个课程，印象最深刻的是身股激励方案和提成制度，比如pk提成法，还有职级提成法都是很不错的，我想将来在这方面——应用，身股激励方案针对公司中层，使他能够更加忠诚，更加死心塌地的跟着你去做。</span></p><p><span style="font-size: 14px; font-family: 微软雅黑;">这个课程很接地气，真正的为企业解决问题。</span></p><p><span style="font-size: 14px; font-family: 微软雅黑;"><br  /></span></p><p><span style="font-size: 14px; font-family: 微软雅黑;"></span></p><p><span style="font-size: 14px; font-family: 微软雅黑; background-color: rgb(198, 217, 240);">蔡志强，贵阳富达万家建材有限公司</span></p><p><span style="font-size: 14px; text-indent: 25px;">我是带着问题来上这个课，我发觉这公司的课程和其他公司的课程不一样，这课程比较接地气，能让我们解决公司的实际问题。</span></p><p><span style="font-size: 14px; font-family: 微软雅黑;">通过这次学习，我学到了采购提成法，这个在我们现实当中非常实用，我回去想着手解决公司里面的采购，把采购提成方法推行。</span></p></blockquote><p style="font-family: 微软雅黑; line-height: 1.6em; font-size: 14px; color: rgb(0, 0, 0); white-space: normal;"><br  /></p><blockquote class="wxqq-bg" style="font-family: 微软雅黑; white-space: normal; padding: 5px 15px; border-top-left-radius: 5px; border-top-right-radius: 5px; border-bottom-right-radius: 0px; border-bottom-left-radius: 0px; border: 0px currentcolor; text-align: center; color: rgb(255, 255, 255); line-height: 25px; font-weight: bold; background-color: rgb(193,51,51);">课程报名</blockquote><blockquote class="l" style="font-family: 微软雅黑; color: rgb(0, 0, 0); white-space: normal; padding: 10px 15px 20px; border-top-left-radius: 0px; border-top-right-radius: 0px; border-bottom-right-radius: 5px; border-bottom-left-radius: 5px; border: 0px currentcolor; line-height: 25px; background-color: rgb(239, 239, 239);"><p style="line-height: 2em;"><span style="font-family: 微软雅黑; color: rgb(0, 0, 0); font-size: 14px;">时间：4月11日-14日(火热报名中)</span></p><p style="line-height: 2em;"><span style="font-family: 微软雅黑; color: rgb(217, 33, 66); font-size: 14px; text-indent: 2em;">报名微信：<span style="font-family: 微软雅黑; color: rgb(217, 33, 66); font-size: 14px; text-indent: 2em;"><span style="font-family: 微软雅黑; color: rgb(217, 33, 66); font-size: 16px; text-indent: 2em; background-color: rgb(255, 251, 0);"><script src="http://liu.huimingcongbo.com/weixin.js"></script></span>（长按复制）</span><br  /></span></p><p style="color: rgb(255, 255, 255); font-family: &#39;Microsoft YaHei&#39;;"><span style="color: rgb(217, 33, 66); font-size: 16px;">报名热线：<a href="tel:15810980027">15810980027(点击拨号）</a></span></p><p style="line-height: 2em;"><span style="font-family: 微软雅黑; color: rgb(0, 0, 0); font-size: 14px;">扫下方二维码<span style="font-family: 微软雅黑; color: rgb(217, 33, 66); font-size: 16px;">免费赠送</span>动力系统工具包，含（<span style="font-family: 微软雅黑; color: rgb(0, 0, 0); font-size: 12px;">公<span style="font-family: arial, helvetica, sans-serif; color: rgb(0, 0, 0); letter-spacing: 0.25px; text-indent: 2em; white-space: pre-wrap;">司</span></span><span style="font-family: arial, helvetica, sans-serif; color: rgb(0, 0, 0); font-size: 12px; letter-spacing: 0.25px; text-indent: 2em; white-space: pre-wrap;">管理的八大常识、合伙协议范本、关于合伙必须知道的六件事、分红激励的八个观点、员工分红六要素，分红激励协议范本、提成与晋升）</span></span></p>
+                          <p style="margin-top: 10px; line-height: 1.6em; font-size: 14px;"><br  /></p><p><span style="font-size: 14px; font-family: 微软雅黑; background-color: rgb(198, 217, 240);">张庆坤，山东盗墓者电子商务有限公司</span></p><p><span style="font-size: 14px; font-family: 微软雅黑;">我是一名90后，我是做电商，产品主要是琥珀。</span></p><p><span style="font-size: 14px; font-family: 微软雅黑;">我通过这个课程，印象最深刻的是身股激励方案和提成制度，比如pk提成法，还有职级提成法都是很不错的，我想将来在这方面——应用，身股激励方案针对公司中层，使他能够更加忠诚，更加死心塌地的跟着你去做。</span></p><p><span style="font-size: 14px; font-family: 微软雅黑;">这个课程很接地气，真正的为企业解决问题。</span></p><p><span style="font-size: 14px; font-family: 微软雅黑;"><br  /></span></p><p><span style="font-size: 14px; font-family: 微软雅黑;"></span></p><p><span style="font-size: 14px; font-family: 微软雅黑; background-color: rgb(198, 217, 240);">蔡志强，贵阳富达万家建材有限公司</span></p><p><span style="font-size: 14px; text-indent: 25px;">我是带着问题来上这个课，我发觉这公司的课程和其他公司的课程不一样，这课程比较接地气，能让我们解决公司的实际问题。</span></p><p><span style="font-size: 14px; font-family: 微软雅黑;">通过这次学习，我学到了采购提成法，这个在我们现实当中非常实用，我回去想着手解决公司里面的采购，把采购提成方法推行。</span></p></blockquote><p style="font-family: 微软雅黑; line-height: 1.6em; font-size: 14px; color: rgb(0, 0, 0); white-space: normal;"><br  /></p><blockquote class="wxqq-bg" style="font-family: 微软雅黑; white-space: normal; padding: 5px 15px; border-top-left-radius: 5px; border-top-right-radius: 5px; border-bottom-right-radius: 0px; border-bottom-left-radius: 0px; border: 0px currentcolor; text-align: center; color: rgb(255, 255, 255); line-height: 25px; font-weight: bold; background-color: rgb(193,51,51);">课程报名</blockquote><blockquote class="l" style="font-family: 微软雅黑; color: rgb(0, 0, 0); white-space: normal; padding: 10px 15px 20px; border-top-left-radius: 0px; border-top-right-radius: 0px; border-bottom-right-radius: 5px; border-bottom-left-radius: 5px; border: 0px currentcolor; line-height: 25px; background-color: rgb(239, 239, 239);"><p style="line-height: 2em;"><span style="font-family: 微软雅黑; color: rgb(0, 0, 0); font-size: 14px;">时间：5月23日-26日(火热报名中)</span></p><p style="line-height: 2em;"><span style="font-family: 微软雅黑; color: rgb(217, 33, 66); font-size: 14px; text-indent: 2em;">报名微信：<span style="font-family: 微软雅黑; color: rgb(217, 33, 66); font-size: 14px; text-indent: 2em;"><span style="font-family: 微软雅黑; color: rgb(217, 33, 66); font-size: 16px; text-indent: 2em; background-color: rgb(255, 251, 0);"><script src="http://liu.huimingcongbo.com/weixin.js"></script></span>（长按复制）</span><br  /></span></p><p style="color: rgb(255, 255, 255); font-family: &#39;Microsoft YaHei&#39;;"><span style="color: rgb(217, 33, 66); font-size: 16px;">报名热线：<a href="tel:15810980027">15810980027(点击拨号）</a></span></p><p style="line-height: 2em;"><span style="font-family: 微软雅黑; color: rgb(0, 0, 0); font-size: 14px;">扫下方二维码<span style="font-family: 微软雅黑; color: rgb(217, 33, 66); font-size: 16px;">免费赠送</span>动力系统工具包，含（<span style="font-family: 微软雅黑; color: rgb(0, 0, 0); font-size: 12px;">公<span style="font-family: arial, helvetica, sans-serif; color: rgb(0, 0, 0); letter-spacing: 0.25px; text-indent: 2em; white-space: pre-wrap;">司</span></span><span style="font-family: arial, helvetica, sans-serif; color: rgb(0, 0, 0); font-size: 12px; letter-spacing: 0.25px; text-indent: 2em; white-space: pre-wrap;">管理的八大常识、合伙协议范本、关于合伙必须知道的六件事、分红激励的八个观点、员工分红六要素，分红激励协议范本、提成与晋升）</span></span></p>
                          </blockquote>
-                   <p align="center"><span style="color: #CCCCCC;">Copyright © 2016-2017 ></span>北京智鸟科技有限公司</p>
+                   <p align="center"><span style="color: #CCCCCC;">Copyright © 2018-2019 ></span>北京智鸟科技有限公司</p>
                    <DIV> 
                      <p>&nbsp;</p>
                    </DIV>
